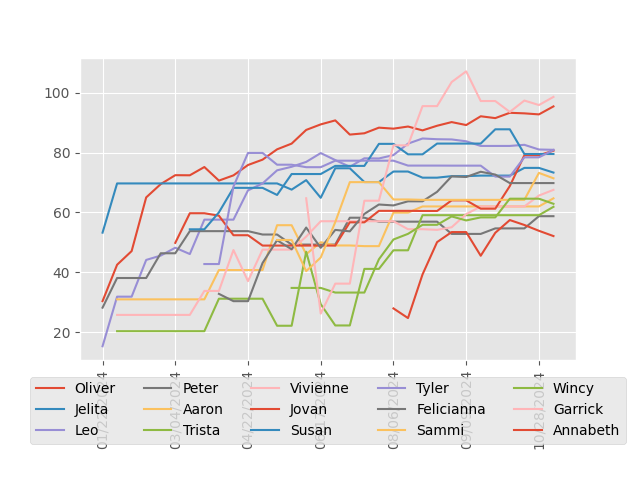
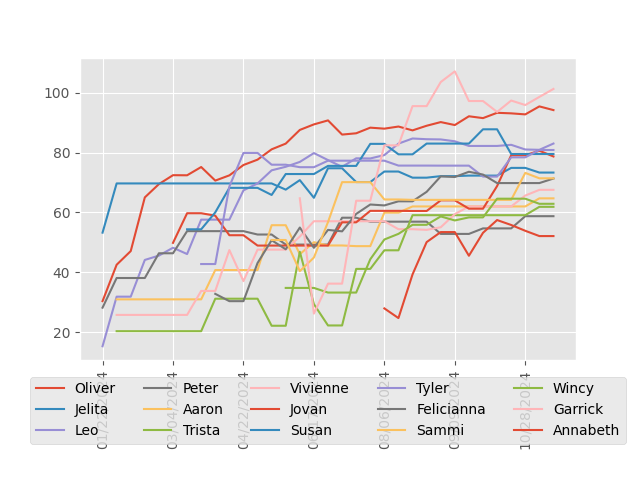
update rankings

diff --git a/README.md b/README.md
@@ -7,22 +7,22 @@
 | Player | ELO | Wins | Losses | Win % |
 | --- | --- | --- | --- | --- |
 | Ted | 109.30 | 9 | 0 | 100% |
-| Garrick | 98.60 | 22 | 18 | 55% |
-| Oliver | 95.43 | 54 | 57 | 49% |
+| Garrick | 101.26 | 23 | 18 | 56% |
+| Oliver | 94.20 | 54 | 59 | 48% |
+| Leo | 83.02 | 36 | 54 | 40% |
 | Iris | 82.36 | 6 | 8 | 43% |
-| Leo | 80.93 | 34 | 54 | 39% |
 | Tyler | 80.87 | 10 | 16 | 38% |
-| Jovan | 80.63 | 18 | 22 | 45% |
 | Susan | 79.52 | 11 | 13 | 46% |
+| Jovan | 78.70 | 18 | 23 | 44% |
 | Jelita | 73.33 | 18 | 28 | 39% |
 | Sammi | 71.41 | 13 | 16 | 45% |
+| Felicianna | 71.34 | 22 | 45 | 33% |
 | Abhi | 71.02 | 5 | 1 | 83% |
-| Felicianna | 69.81 | 21 | 44 | 32% |
+| Harsha | 68.13 | 8 | 11 | 42% |
 | Vivienne | 67.55 | 14 | 23 | 38% |
 | Kenny | 66.88 | 6 | 5 | 55% |
 | Simon | 66.61 | 9 | 9 | 50% |
 | Aaron | 64.71 | 15 | 16 | 48% |
-| Harsha | 63.46 | 7 | 11 | 39% |
 | Wincy | 62.89 | 15 | 24 | 38% |
 | Lil Su | 62.47 | 5 | 9 | 36% |
 | Trista | 61.88 | 13 | 18 | 42% |
@@ -62,7 +62,7 @@
 | Daphne | 27.18 | 0 | 1 | 0% |
 | Dam | 21.78 | 0 | 2 | 0% |
 | Ellabelle | 20.75 | 0 | 3 | 0% |
-| Freya | 17.86 | 0 | 3 | 0% |
+| Freya | 20.31 | 0 | 4 | 0% |
 | Dorine | 15.73 | 2 | 6 | 25% |
 
 
@@ -169,23 +169,23 @@
 
 | Player | ELO | Wins | Losses | Win % |
 | --- | --- | --- | --- | --- |
-| Oliver | 90.26 | 14 | 5 | 74% |
-| Garrick | 72.73 | 8 | 3 | 73% |
+| Oliver | 84.04 | 14 | 6 | 70% |
+| Garrick | 83.29 | 9 | 3 | 75% |
 | Simon | 67.66 | 6 | 2 | 75% |
-| Jovan | 63.56 | 7 | 2 | 78% |
 | Jelita | 63.35 | 6 | 2 | 75% |
+| Harsha | 59.73 | 2 | 0 | 100% |
 | Vivienne | 58.47 | 5 | 3 | 62% |
 | Tyler | 58.03 | 3 | 0 | 100% |
 | Susan | 57.55 | 4 | 1 | 80% |
+| Felicianna | 55.54 | 8 | 7 | 53% |
+| Jovan | 55.37 | 7 | 3 | 70% |
 | Dev | 51.79 | 2 | 0 | 100% |
 | Kenny | 51.57 | 2 | 1 | 67% |
 | Peter | 51.20 | 3 | 2 | 60% |
 | Wincy | 48.23 | 5 | 4 | 56% |
-| Felicianna | 45.91 | 7 | 7 | 50% |
 | Cindy | 44.17 | 1 | 0 | 100% |
 | Pansy | 43.52 | 2 | 2 | 50% |
 | Sammi | 42.83 | 2 | 2 | 50% |
-| Harsha | 42.82 | 1 | 0 | 100% |
 | Kazumi | 42.70 | 2 | 1 | 67% |
 | Viktoria | 40.70 | 1 | 0 | 100% |
 | Jackie | 40.70 | 1 | 0 | 100% |
@@ -202,6 +202,7 @@
 | Maurice | 30.08 | 0 | 1 | 0% |
 | Dam | 30.08 | 0 | 1 | 0% |
 | Lil Su | 29.89 | 0 | 1 | 0% |
+| Leo | 29.29 | 5 | 11 | 31% |
 | Dan | 29.11 | 0 | 1 | 0% |
 | Chia | 29.07 | 0 | 1 | 0% |
 | Aaron | 28.61 | 2 | 4 | 33% |
@@ -211,7 +212,6 @@
 | Ellabelle | 27.00 | 0 | 1 | 0% |
 | Iris | 22.88 | 0 | 2 | 0% |
 | Freya | 21.55 | 0 | 2 | 0% |
-| Leo | 19.82 | 4 | 11 | 27% |
 
 
 ### Codenames
@@ -300,16 +300,18 @@
 
 | Player | ELO | Wins | Losses | Win % |
 | --- | --- | --- | --- | --- |
+| Leo | 50.66 | 2 | 0 | 100% |
 | Viktoria | 44.70 | 1 | 0 | 100% |
 | Clarys | 44.56 | 1 | 0 | 100% |
 | Siri | 41.95 | 1 | 1 | 50% |
-| Leo | 41.37 | 1 | 0 | 100% |
 | Susan | 36.60 | 0 | 2 | 0% |
-| Oliver | 35.31 | 0 | 3 | 0% |
+| Oliver | 35.96 | 0 | 4 | 0% |
 | Jackie | 35.22 | 0 | 1 | 0% |
 | Aaron | 35.22 | 0 | 1 | 0% |
 | Trista | 35.22 | 0 | 1 | 0% |
 | Peter | 34.84 | 0 | 1 | 0% |
+| Felicianna | 33.72 | 0 | 1 | 0% |
+| Freya | 33.72 | 0 | 1 | 0% |
 | Kazumi | 31.49 | 0 | 1 | 0% |
 
 
